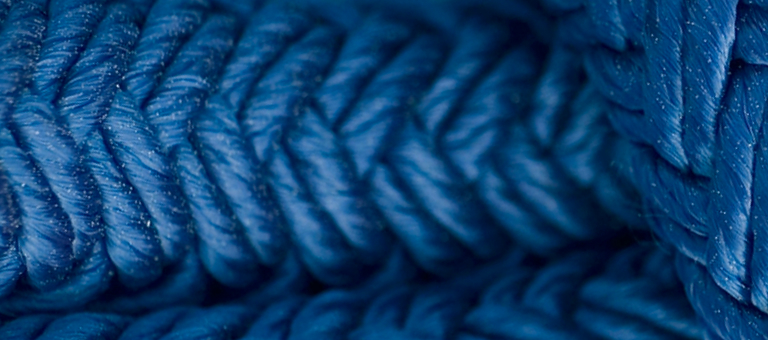
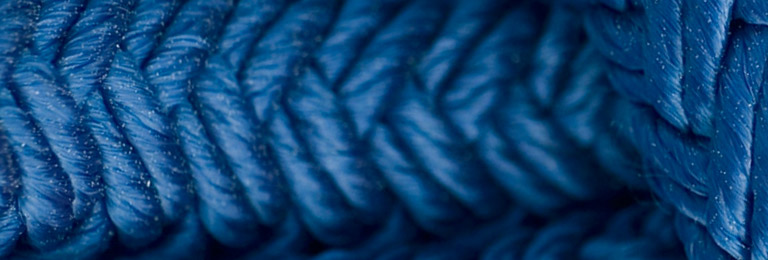
save

diff --git a/index.html b/index.html
@@ -25,6 +25,7 @@
 	<link href="blocks/footer-menu/style.css" rel="stylesheet" type="text/css">
 	<link href="blocks/header-search/style.css" rel="stylesheet" type="text/css">
 	<link href="blocks/page-slider/style.css" rel="stylesheet" type="text/css">
+	<link href="blocks/news-list/style.css" rel="stylesheet" type="text/css">
 </head>
 <body>
 <div style="display: none">
@@ -140,18 +141,52 @@
 				<img src="blocks/page-slider/images/slide1-1920.jpg" alt="">
 			</picture>
 			<div class="page-slider__info">
-				<div class="page-slider__info-inner page-slider__info-inner--background">
-					<div class="page-slider__name">Сезонное предложение — дверь с терморазрывом<br>от <span class="color-primary">26 000 руб.</span></div>
-					<div class="page-slider__desc">Оптимальный выбор для загородного дома и дачи!</div>
+				<div class="page-container page-slider__info-inner">
+					<div class="page-slider__name">Веревки, канаты, узлы</div>
+					<div class="page-slider__desc">и все, что с ними связано</div>
 				</div>
 			</div>
 		</div>
-
-
+		<div class="page-slider__item">
+			<picture class="page-slider__image">
+				<source srcset="blocks/page-slider/images/slide1-768.jpg" media="(max-width: 767px)">
+				<source srcset="blocks/page-slider/images/slide1-1200.jpg" media="(max-width: 1199px)">
+				<img src="blocks/page-slider/images/slide1-1920.jpg" alt="">
+			</picture>
+			<div class="page-slider__info">
+				<div class="page-container page-slider__info-inner">
+					<div class="page-slider__name">Веревки, канаты, узлы</div>
+					<div class="page-slider__desc">и все, что с ними связано</div>
+				</div>
+			</div>
+		</div>
 	</div>
 
 
-	<main class="page-content"></main>
+	<main class="page-container page-content">
+		<h2 class="ta-c">Новости</h2>
+		<div class="news-list">
+			<div class="news-list__item">
+				<div class="news-list__image"><img src="blocks/news-list/images/img1.jpg" alt=""></div>
+				<div class="news-list__date">20 июня 2020</div>
+				<div class="news-list__name">Подробный разбор конструктивных особенностей второго поколения рюкзака HPG Umlindi</div>
+				<div class="news-list__desc">Американская компания Hill People Gear (HPG) опубликовала почти восьмиминутный видеоролик, в котором Эван Хилл (Evan Hill).</div>
+			</div>
+			<div class="news-list__item">
+				<div class="news-list__image"><img src="blocks/news-list/images/img1.jpg" alt=""></div>
+				<div class="news-list__date">20 июня 2020</div>
+				<div class="news-list__name">Подробный разбор конструктивных особенностей второго поколения рюкзака HPG Umlindi</div>
+				<div class="news-list__desc">Американская компания Hill People Gear (HPG) опубликовала почти восьмиминутный видеоролик, в котором Эван Хилл (Evan Hill).</div>
+			</div>
+			<div class="news-list__item">
+				<div class="news-list__image"><img src="blocks/news-list/images/img1.jpg" alt=""></div>
+				<div class="news-list__date">20 июня 2020</div>
+				<div class="news-list__name">Подробный разбор конструктивных особенностей второго поколения рюкзака HPG Umlindi</div>
+				<div class="news-list__desc">Американская компания Hill People Gear (HPG) опубликовала почти восьмиминутный видеоролик, в котором Эван Хилл (Evan Hill).</div>
+			</div>
+		</div>
+		
+	</main>
 	<footer class="page-footer">
 		<div class="page-container page-footer__inner">
 			<div class="page-footer__info">
@@ -251,8 +286,9 @@
 </div>
 </body>
 
-<script src="libs/jquery/jquery-3.4.1.min.js" defer></script>
-<script src="script.js"></script>
+<script src="libs/jquery/jquery-3.4.1.min.js"></script>
 <script src="libs/slick/slick.min.js"></script>
 <script src="blocks/page-slider/script.js"></script>
+
+<script src="script.js"></script>
 </html>

diff --git a/blocks/page-slider/style.css b/blocks/page-slider/style.css
@@ -1,11 +1,11 @@
 .page-slider {
-	height: 433px;
+	height: 260px;
 	overflow: hidden;
 	margin-top: -2px;
 }
 
 	.page-slider__item {
-		height: 433px;
+		height: 260px;
 		overflow: hidden;
 		position: relative;
 	}
@@ -28,27 +28,26 @@
 			position: absolute;
 			right: 0;
 			text-align: center;
-			top: 38px;
+			top: 0;
+			bottom: 0;
 			z-index: 5;
+			font-family: var(--font-family-secondary);
+			display: flex;
+			align-items: center;
 		}
 			
 			.page-slider__info-inner {
-				padding: 24px 44px;
 			}
 		
-				.page-slider__info-inner--background {
-					background: #fff;
-					color: #000;
-				}
-		
 			.page-slider__name {
-				font-size: 22px;
+				font-size: 36px;
 				font-weight: 700;
 				margin-bottom: 20px;
 				text-transform: uppercase;
 			}
 			
 			.page-slider__desc {
+				font-size: 18px;
 			}
 			
 	.page-slider__dots {
@@ -68,7 +67,7 @@
 			border-radius: 50%;
 			margin: 0 4px;
 			padding: 1px;
-			transition: var(--transition);
+			transition: .3s;
 		}
 
 			.page-slider__dots li:hover,
@@ -88,7 +87,7 @@
 				margin: 0;
 				outline: none;
 				padding: 0;
-				transition: var(--transition);
+				transition: .3s;
 				width: 11px;
 			}
 		
@@ -98,29 +97,45 @@
 			}
 
 @media (min-width: 768px) {
-	.page-slider__image {
-		margin-left: -567px;
+	.page-slider {
+		height: 340px;
 	}
 	
-	.page-slider__info {
-		align-items: center;
-		bottom: 0;
-		display: flex;
-		padding: 60px;
-		text-align: left;
-		top: 0;
-	}
-	
-		.page-slider__name {
-			font-size: 38px;
+		.page-slider__item {
+			height: 340px;
 		}
 	
-		.page-slider__desc {
-		}
+			.page-slider__image {
+				margin-left: -600px;
+			}
+			
+				.page-slider__name {
+					font-size: 50px;
+				}
+			
+				.page-slider__desc {
+					font-size: 22px;
+				}
 }
 
-@media (min-width: 992px) {
-	.page-slider__info {
-		width: 70%;
+@media (min-width: 1200px) {
+	.page-slider {
+		height: 420px;
 	}
+	
+		.page-slider__item {
+			height: 420px;
+		}
+	
+			.page-slider__image {
+				margin-left: -960px;
+			}
+	
+				.page-slider__name {
+					font-size: 62px;
+				}
+				
+				.page-slider__desc {
+					font-size: 26px;
+				}
 }

diff --git a/blocks/news-list/style.css b/blocks/news-list/style.css
@@ -1,0 +1,42 @@
+.news-list {
+	line-height: 1.4;
+}
+
+	.news-list__item {
+	}
+	
+		.news-list__image {
+			margin-bottom: 1.25em;
+		}
+		
+			.news-list__image img {
+				display: block;
+			}
+		
+		.news-list__date {
+			font-size: var(--font-size--middle);
+			font-weight: 300;
+			margin-bottom: .75em;
+		}
+		
+		.news-list__name {
+			font-weight: bold;
+			margin-bottom: .75em;
+		}
+		
+		.news-list__desc {
+		
+		}
+
+@media (min-width: 768px) {
+	.news-list {
+		display: flex;
+		margin: 0 -15px;
+	}
+	
+		.news-list__item {
+			flex: 0 0 33.33333%;
+			max-width: 33.33333%;
+			padding: 0 15px;
+		}
+}

diff --git a/script.js b/script.js
@@ -30,7 +30,7 @@ const app = {
 
     init: function() {
         this.mobileMenuToggle();
-        this.svgLoad();
+        //this.svgLoad();
     }
 };
 

diff --git a/template_styles.css b/template_styles.css
@@ -39,6 +39,9 @@ body {
 .page-content {
 	flex-grow: 1;
 	flex-shrink: 0;
+	
+	padding-top: 3em;
+	padding-bottom: 6em;
 }
 
 .page-footer {

diff --git a/styles.css b/styles.css
@@ -127,7 +127,7 @@ h4,
 }
 
 p {
-	line-height: 1.5;
+	line-height: 1.4;
 	margin: 20px 0;
 }
 
